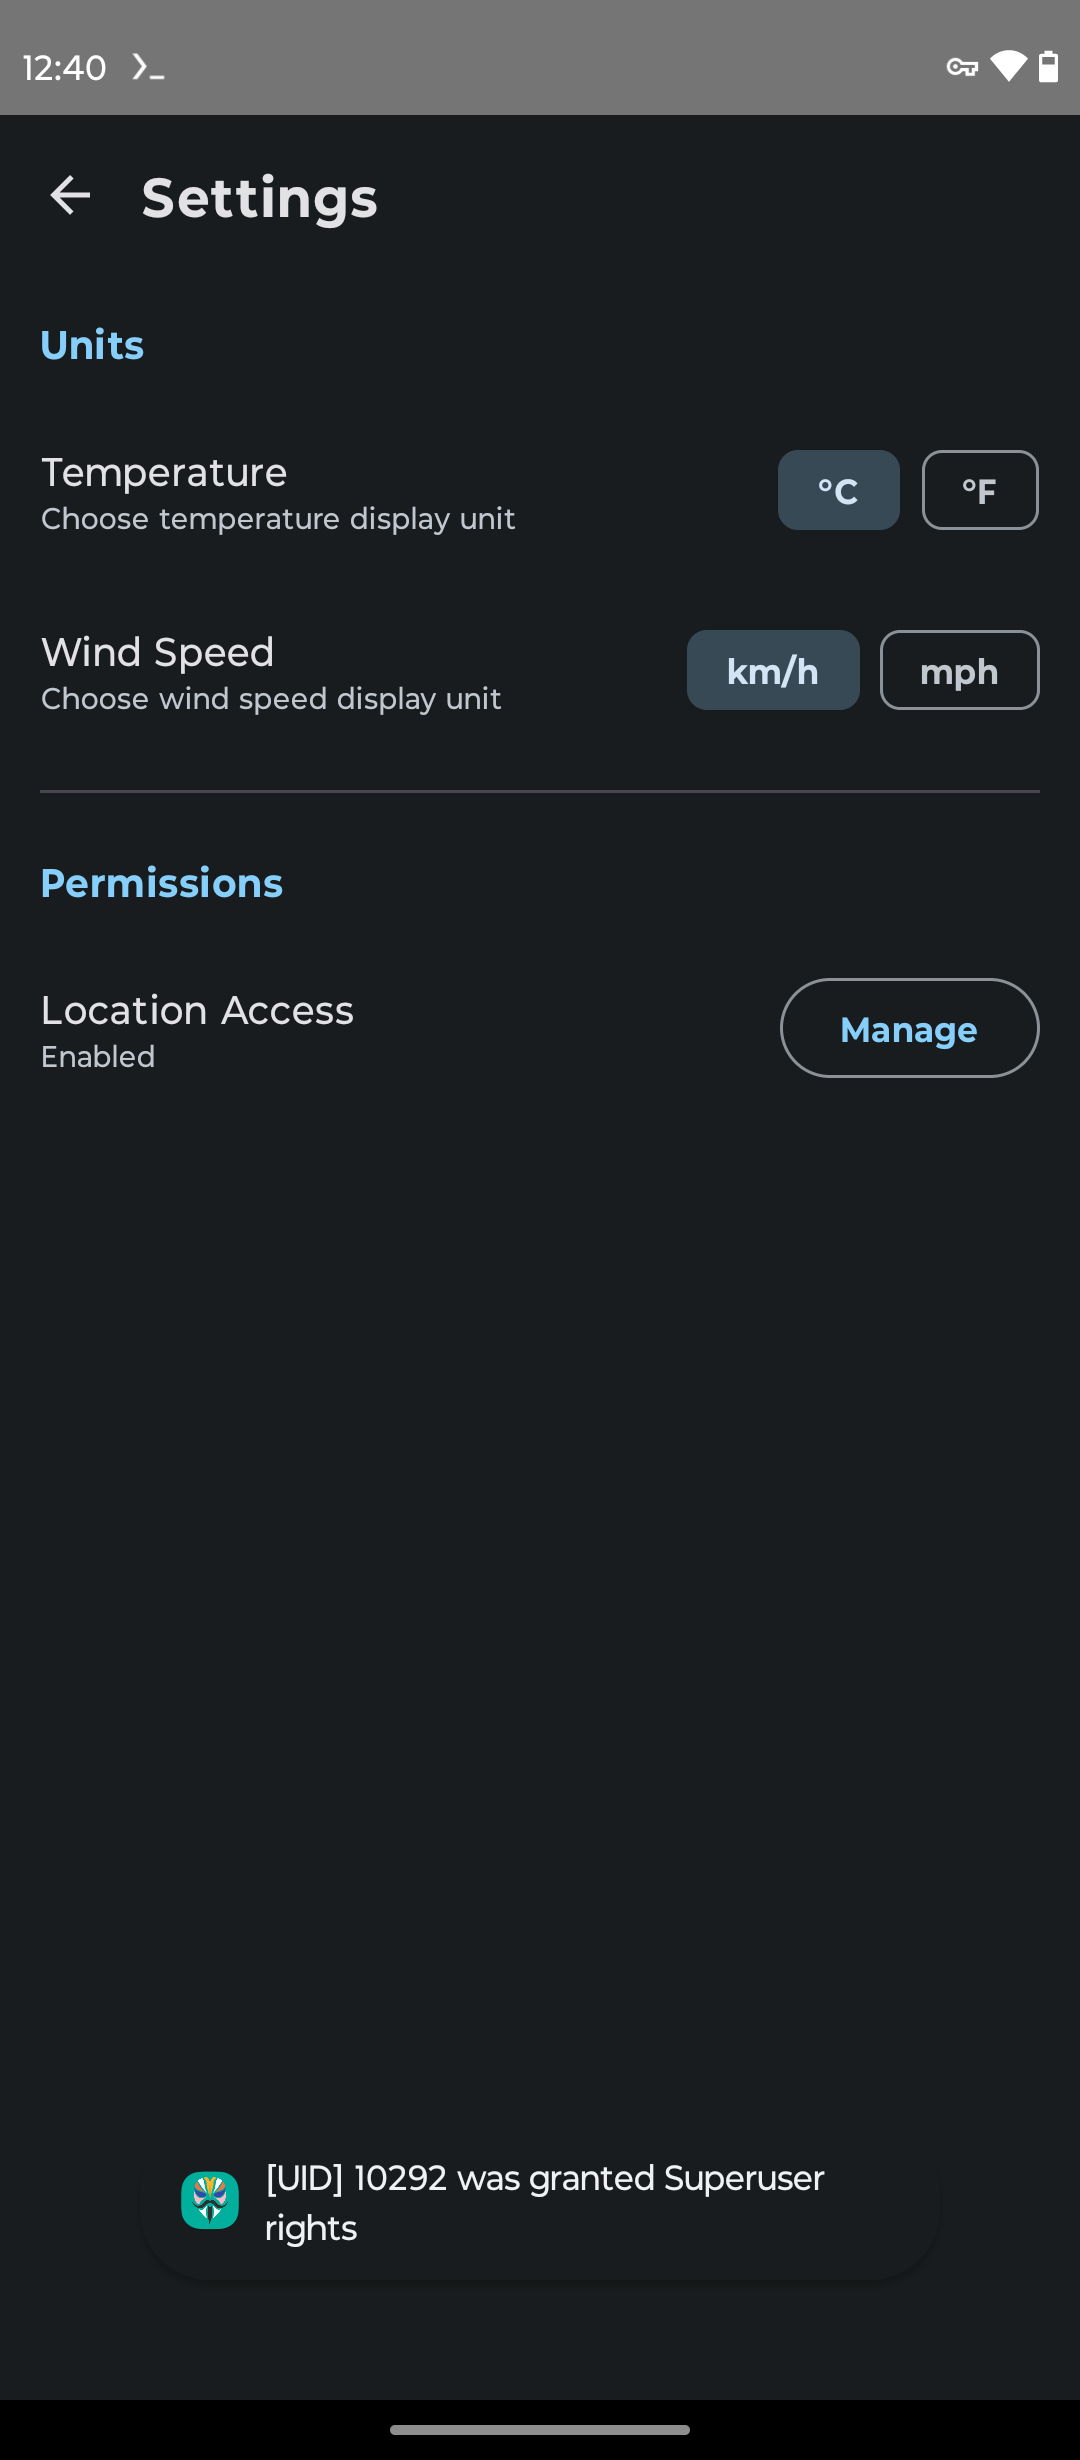
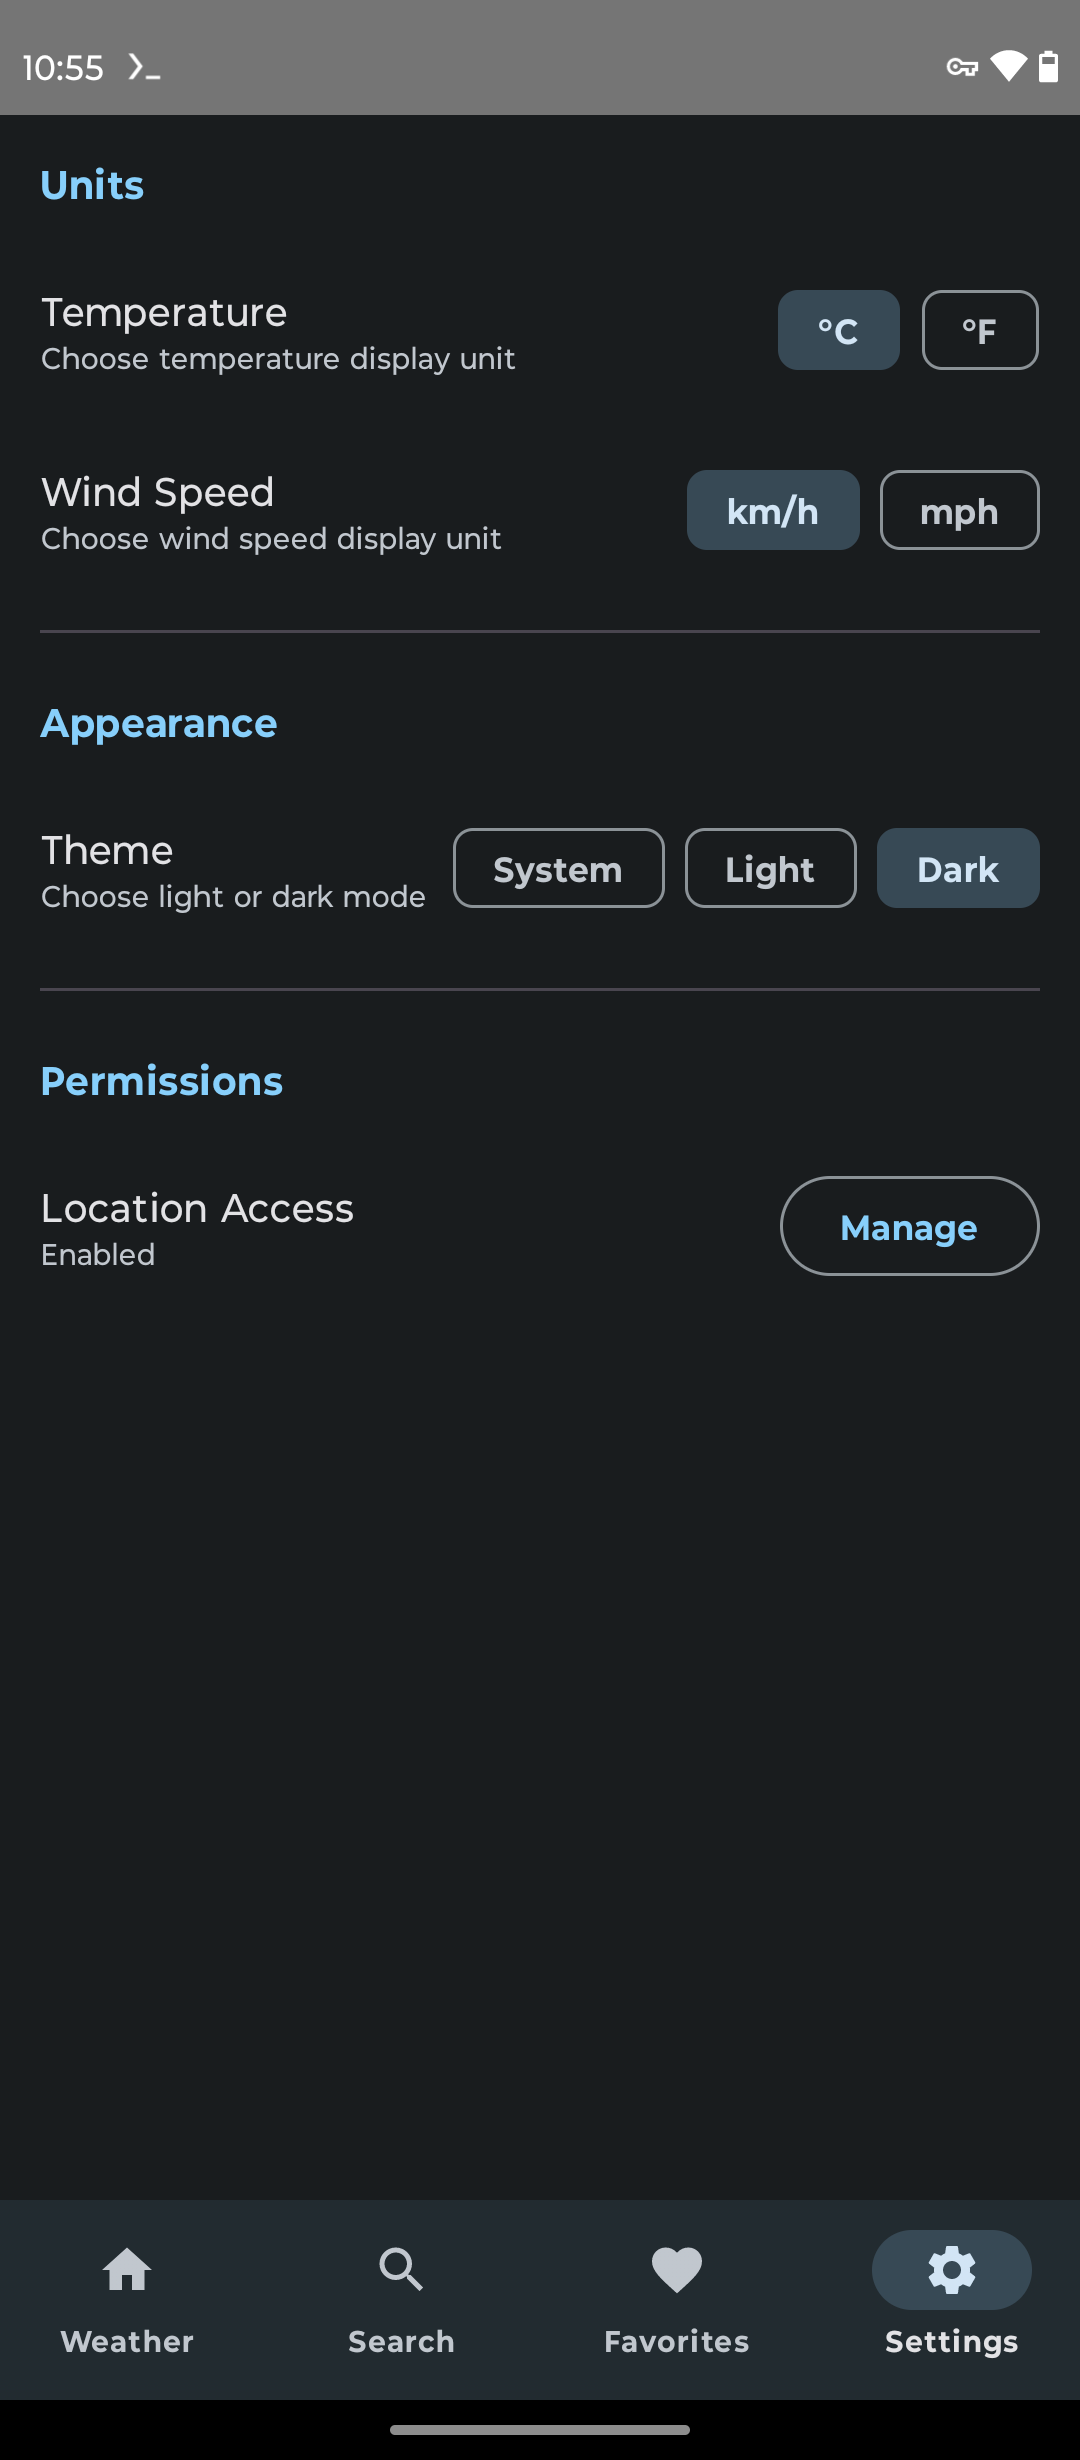
feat: Splash screen + Clean screenshots (S7.5 partial + S7.6) (#46)
* feat: add splash screen and update launcher colors (S7.5 partial)

- Add androidx.core:core-splashscreen dependency
- Create ic_launcher_foreground vector drawable (sun icon)
- Update launcher icon colors (blue on light blue bg)
- Configure splash screen in themes.xml (Android 12+)
- Install splash screen in MainActivity onCreate

Note: Launcher icon rendering as generic blue circle on device.
Vector drawable may need raster fallbacks (PNG assets) for proper display.
Splash screen configured but not visually verified (fast launch ~1.1s).

Relates to #43

* feat: update screenshots without Superuser toast (S7.6)

- Retaken 4 clean screenshots (no Superuser notification)
- 01-weather.png: Buenos Aires 19°C in dark mode (140KB)
- 02-settings.png: Theme toggle + Units (117KB)
- 03-favorites.png: 2 favorites with resolved names (63KB)
- 04-search.png: Search with recent searches (91KB)

All screenshots now clean and professional.

Closes #44

diff --git a/app/src/main/kotlin/com/giruai/climatest/MainActivity.kt b/app/src/main/kotlin/com/giruai/climatest/MainActivity.kt
@@ -3,6 +3,7 @@ package com.giruai.climatest
 import android.os.Bundle
 import androidx.activity.ComponentActivity
 import androidx.activity.compose.setContent
+import androidx.core.splashscreen.SplashScreen.Companion.installSplashScreen
 import androidx.compose.foundation.isSystemInDarkTheme
 import androidx.compose.foundation.layout.fillMaxSize
 import androidx.compose.material3.MaterialTheme
@@ -25,6 +26,9 @@ class MainActivity : ComponentActivity() {
     lateinit var settingsManager: SettingsManager
     
     override fun onCreate(savedInstanceState: Bundle?) {
+        // Install splash screen before calling super
+        installSplashScreen()
+        
         super.onCreate(savedInstanceState)
         Timber.d("MainActivity onCreate")
 
